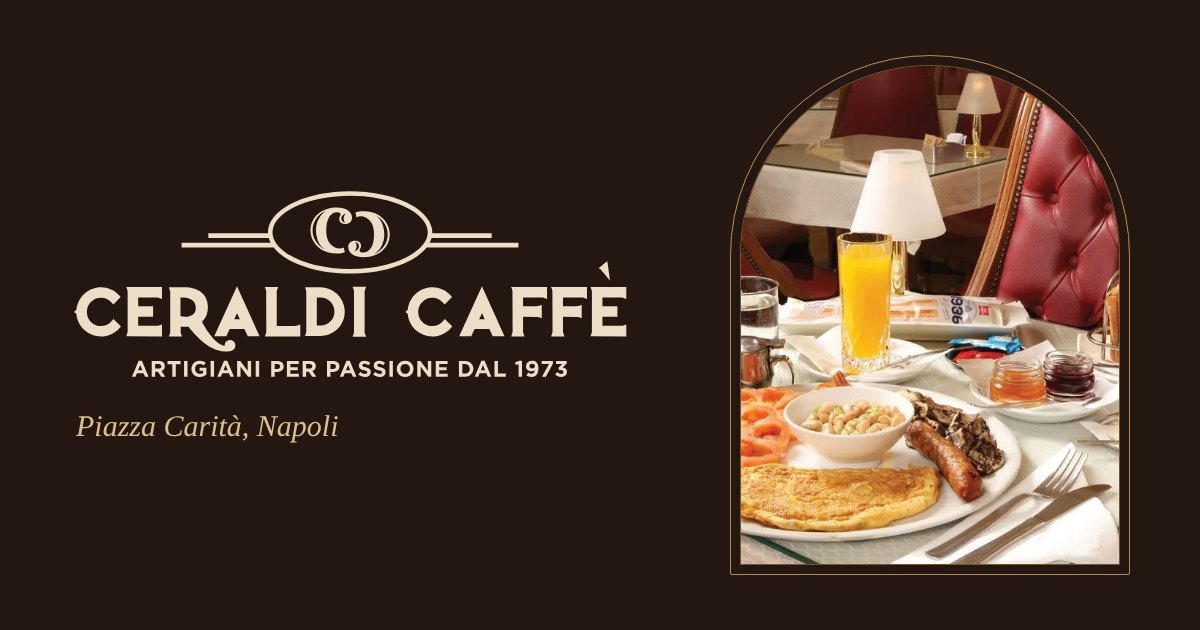
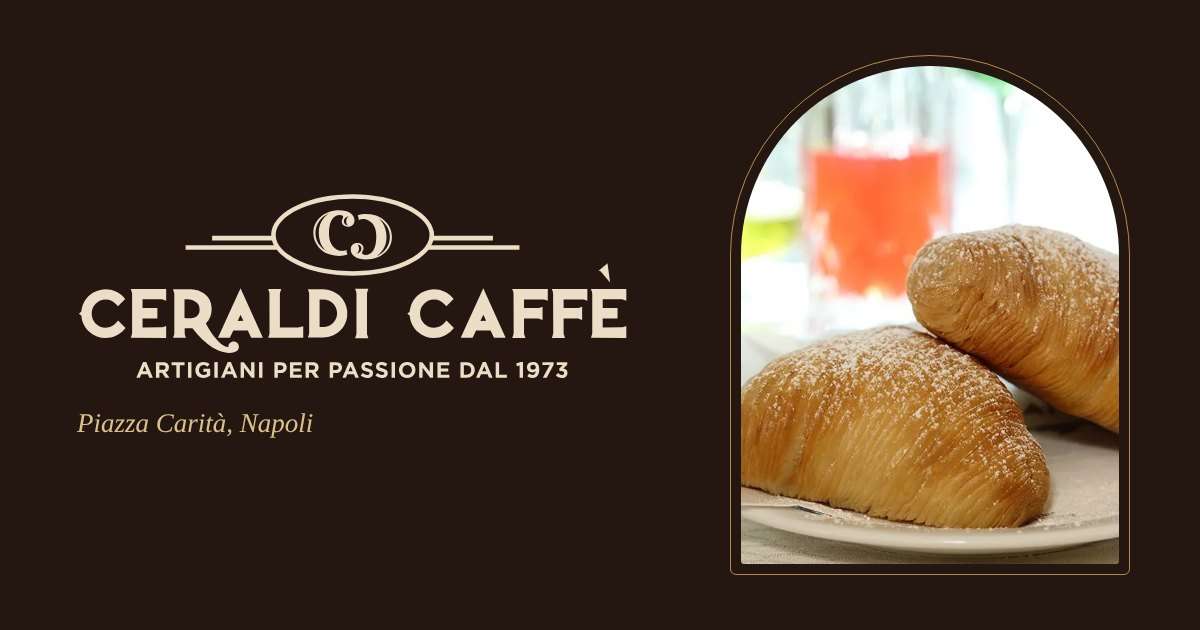
Home: foto principale e immagine di condivisione con la sfogliatella al posto dell'English breakfast
Claude-Session: https://claude.ai/code/session_01QpqcvFL7S2ovpCq1VA1hHC

diff --git a/caffe/index.html b/caffe/index.html
@@ -19,10 +19,10 @@
 <meta name="geo.region" content="IT-NA"><meta name="geo.placename" content="Napoli">
 <link rel="icon" href="favicon.svg" type="image/svg+xml">
 <link rel="apple-touch-icon" href="img/apple-touch-icon.png">
-<link rel="preload" as="image" href="img/sala-1024.webp" fetchpriority="high"><link rel="preload" href="assets/font/BodoniModa-normal-400_600-latin.woff2" as="font" type="font/woff2" crossorigin><link rel="preload" href="assets/font/WorkSans-normal-400-latin.woff2" as="font" type="font/woff2" crossorigin><link rel="stylesheet" href="assets/font.css">
+<link rel="preload" as="image" href="img/sfogliatella-riccia-1024.webp" fetchpriority="high"><link rel="preload" href="assets/font/BodoniModa-normal-400_600-latin.woff2" as="font" type="font/woff2" crossorigin><link rel="preload" href="assets/font/WorkSans-normal-400-latin.woff2" as="font" type="font/woff2" crossorigin><link rel="stylesheet" href="assets/font.css">
 <link rel="stylesheet" href="assets/sito.css">
 
-<script type="application/ld+json">{"@context": "https://schema.org", "@type": ["CafeOrCoffeeShop", "Bakery"], "@id": "https://valerioceraldi-hub.github.io/Ceraldi/caffe/#bar", "name": "Ceraldi Caffè", "alternateName": ["Caffè Ceraldi", "Ceraldi Caffe", "Bar Ceraldi Piazza Carità"], "slogan": "Artigiani per passione dal 1973", "url": "https://valerioceraldi-hub.github.io/Ceraldi/caffe/", "logo": "https://valerioceraldi-hub.github.io/Ceraldi/caffe/img/logo-ceraldi.svg", "image": ["https://valerioceraldi-hub.github.io/Ceraldi/caffe/img/sala-1024.webp", "https://valerioceraldi-hub.github.io/Ceraldi/caffe/img/squadra-1600.webp", "https://valerioceraldi-hub.github.io/Ceraldi/caffe/img/sfogliatella-riccia-1024.webp", "https://valerioceraldi-hub.github.io/Ceraldi/caffe/img/baba-1024.webp"], "description": "Bar e pasticceria napoletana della famiglia Ceraldi, attiva dal 1973 (prima in Piazza Garibaldi, dal 2002 in Piazza Carità, Napoli). Pasticceria di produzione propria con ricette di famiglia custodite da oltre cento anni: sfogliatelle, babà, pastiera, zeppole. Colazione all'italiana con croissant e brioche, caffè della casa, buffet freddi e aperitivo.", "foundingDate": "1973", "telephone": "+39 081 552 3488", "priceRange": "€", "contactPoint": [{"@type": "ContactPoint", "telephone": "+39 081 552 3488", "contactType": "customer service", "availableLanguage": ["it", "en"]}, {"@type": "ContactPoint", "telephone": "+39 328 438 8404", "contactType": "customer service", "availableLanguage": ["it"]}], "address": {"@type": "PostalAddress", "streetAddress": "Piazza Carità, 14", "postalCode": "80134", "addressLocality": "Napoli", "addressRegion": "NA", "addressCountry": "IT"}, "openingHoursSpecification": [{"@type": "OpeningHoursSpecification", "dayOfWeek": ["Monday", "Tuesday", "Wednesday", "Thursday", "Friday", "Saturday", "Sunday"], "opens": "06:30", "closes": "20:30"}], "geo": {"@type": "GeoCoordinates", "latitude": 40.8445035, "longitude": 14.2488753}, "hasMap": "https://maps.google.com/?cid=3267263170235699466", "hasMenu": "https://valerioceraldi-hub.github.io/Ceraldi/caffe/menu/", "vatID": "IT04523831214", "legalName": "Ceraldi Group S.r.l.", "servesCuisine": ["Caffetteria", "Pasticceria napoletana", "Colazione italiana", "Aperitivo"], "knowsAbout": ["caffè napoletano", "sfogliatella", "babà", "pastiera napoletana", "zeppole di San Giuseppe", "pasticceria napoletana", "colazione all'italiana"], "sameAs": ["https://www.instagram.com/ceraldicaffe/", "https://www.facebook.com/ceraldicaffe", "https://www.tripadvisor.it/Restaurant_Review-g187785-d2695184-Reviews-Ceraldi_Caffe-Naples_Province_of_Naples_Campania.html", "https://maps.google.com/?cid=3267263170235699466"]}</script><script type="application/ld+json">{"@context": "https://schema.org", "@type": "WebSite", "@id": "https://valerioceraldi-hub.github.io/Ceraldi/caffe/#sito", "name": "Ceraldi Caffè", "url": "https://valerioceraldi-hub.github.io/Ceraldi/caffe/", "inLanguage": ["it-IT", "en"], "publisher": {"@id": "https://valerioceraldi-hub.github.io/Ceraldi/caffe/#bar"}}</script><script type="application/ld+json">{"@context": "https://schema.org", "@type": "FAQPage", "mainEntity": [{"@type": "Question", "name": "Quali sono gli orari di Ceraldi Caffè?", "acceptedAnswer": {"@type": "Answer", "text": "Siamo aperti tutti i giorni, domenica compresa, dalle 6:30 alle 20:30."}}, {"@type": "Question", "name": "Dove si trova il bar?", "acceptedAnswer": {"@type": "Answer", "text": "In Piazza Carità 14, nel centro di Napoli, lungo via Toledo e vicino alla Pignasecca. Le stazioni Toledo e Dante della metropolitana Linea 1 sono a pochi minuti a piedi."}}, {"@type": "Question", "name": "Posso vedere il menu prima di venire?", "acceptedAnswer": {"@type": "Answer", "text": "Sì, il menu completo con prezzi è sul sito: https://valerioceraldi-hub.github.io/Ceraldi/caffe/menu/ e c'è anche il menu interattivo con filtro allergeni: https://ceraldicaffe.qromo.it"}}, {"@type": "Question", "name": "I dolci sono fatti da voi?", "acceptedAnswer": {"@type": "Answer", "text": "Sì. La pasticceria è di produzione propria, con ricette di famiglia custodite da oltre cento anni: sfogliatelle, babà, pastiera, zeppole e le creazioni della casa."}}, {"@type": "Question", "name": "Cosa posso mangiare a colazione?", "acceptedAnswer": {"@type": "Answer", "text": "La classica colazione all'italiana con croissant (vuoti, alla crema, al cioccolato, integrali, vegani), brioche, kranz e pain au chocolat, insieme ai dolci napoletani come sfogliatella, graffa e babà."}}, {"@type": "Question", "name": "Fate anche l'aperitivo?", "acceptedAnswer": {"@type": "Answer", "text": "Sì, fino alle 20:30, con il nostro Aspritz fatto in casa, spritz, negroni, gin tonic, vini campani al calice e birre."}}, {"@type": "Question", "name": "Si può pranzare?", "acceptedAnswer": {"@type": "Answer", "text": "Sì, con la rosticceria napoletana (frittatine, crocchè, pizza fritta), saltimbocca e panini, freselle e insalate."}}, {"@type": "Question", "name": "Servite la colazione inglese?", "acceptedAnswer": {"@type": "Answer", "text": "Sì, tutte le mattine serviamo la Full English Breakfast: uova, bacon, salsicce, fagioli, funghi, pomodori, pane tostato e tè."}}, {"@type": "Question", "name": "Come posso contattarvi?", "acceptedAnswer": {"@type": "Answer", "text": "Al telefono fisso 081 552 3488 (anche WhatsApp), al cellulare 328 438 8404 oppure su Instagram @ceraldicaffe."}}, {"@type": "Question", "name": "Dove posso leggere le recensioni?", "acceptedAnswer": {"@type": "Answer", "text": "Su Google e su Tripadvisor, dove trovi quasi 2.000 recensioni dei nostri clienti."}}]}</script>
+<script type="application/ld+json">{"@context": "https://schema.org", "@type": ["CafeOrCoffeeShop", "Bakery"], "@id": "https://valerioceraldi-hub.github.io/Ceraldi/caffe/#bar", "name": "Ceraldi Caffè", "alternateName": ["Caffè Ceraldi", "Ceraldi Caffe", "Bar Ceraldi Piazza Carità"], "slogan": "Artigiani per passione dal 1973", "url": "https://valerioceraldi-hub.github.io/Ceraldi/caffe/", "logo": "https://valerioceraldi-hub.github.io/Ceraldi/caffe/img/logo-ceraldi.svg", "image": ["https://valerioceraldi-hub.github.io/Ceraldi/caffe/img/sfogliatella-riccia-1024.webp", "https://valerioceraldi-hub.github.io/Ceraldi/caffe/img/baba-1024.webp", "https://valerioceraldi-hub.github.io/Ceraldi/caffe/img/squadra-1600.webp", "https://valerioceraldi-hub.github.io/Ceraldi/caffe/img/sala-1024.webp"], "description": "Bar e pasticceria napoletana della famiglia Ceraldi, attiva dal 1973 (prima in Piazza Garibaldi, dal 2002 in Piazza Carità, Napoli). Pasticceria di produzione propria con ricette di famiglia custodite da oltre cento anni: sfogliatelle, babà, pastiera, zeppole. Colazione all'italiana con croissant e brioche, caffè della casa, buffet freddi e aperitivo.", "foundingDate": "1973", "telephone": "+39 081 552 3488", "priceRange": "€", "contactPoint": [{"@type": "ContactPoint", "telephone": "+39 081 552 3488", "contactType": "customer service", "availableLanguage": ["it", "en"]}, {"@type": "ContactPoint", "telephone": "+39 328 438 8404", "contactType": "customer service", "availableLanguage": ["it"]}], "address": {"@type": "PostalAddress", "streetAddress": "Piazza Carità, 14", "postalCode": "80134", "addressLocality": "Napoli", "addressRegion": "NA", "addressCountry": "IT"}, "openingHoursSpecification": [{"@type": "OpeningHoursSpecification", "dayOfWeek": ["Monday", "Tuesday", "Wednesday", "Thursday", "Friday", "Saturday", "Sunday"], "opens": "06:30", "closes": "20:30"}], "geo": {"@type": "GeoCoordinates", "latitude": 40.8445035, "longitude": 14.2488753}, "hasMap": "https://maps.google.com/?cid=3267263170235699466", "hasMenu": "https://valerioceraldi-hub.github.io/Ceraldi/caffe/menu/", "vatID": "IT04523831214", "legalName": "Ceraldi Group S.r.l.", "servesCuisine": ["Caffetteria", "Pasticceria napoletana", "Colazione italiana", "Aperitivo"], "knowsAbout": ["caffè napoletano", "sfogliatella", "babà", "pastiera napoletana", "zeppole di San Giuseppe", "pasticceria napoletana", "colazione all'italiana"], "sameAs": ["https://www.instagram.com/ceraldicaffe/", "https://www.facebook.com/ceraldicaffe", "https://www.tripadvisor.it/Restaurant_Review-g187785-d2695184-Reviews-Ceraldi_Caffe-Naples_Province_of_Naples_Campania.html", "https://maps.google.com/?cid=3267263170235699466"]}</script><script type="application/ld+json">{"@context": "https://schema.org", "@type": "WebSite", "@id": "https://valerioceraldi-hub.github.io/Ceraldi/caffe/#sito", "name": "Ceraldi Caffè", "url": "https://valerioceraldi-hub.github.io/Ceraldi/caffe/", "inLanguage": ["it-IT", "en"], "publisher": {"@id": "https://valerioceraldi-hub.github.io/Ceraldi/caffe/#bar"}}</script><script type="application/ld+json">{"@context": "https://schema.org", "@type": "FAQPage", "mainEntity": [{"@type": "Question", "name": "Quali sono gli orari di Ceraldi Caffè?", "acceptedAnswer": {"@type": "Answer", "text": "Siamo aperti tutti i giorni, domenica compresa, dalle 6:30 alle 20:30."}}, {"@type": "Question", "name": "Dove si trova il bar?", "acceptedAnswer": {"@type": "Answer", "text": "In Piazza Carità 14, nel centro di Napoli, lungo via Toledo e vicino alla Pignasecca. Le stazioni Toledo e Dante della metropolitana Linea 1 sono a pochi minuti a piedi."}}, {"@type": "Question", "name": "Posso vedere il menu prima di venire?", "acceptedAnswer": {"@type": "Answer", "text": "Sì, il menu completo con prezzi è sul sito: https://valerioceraldi-hub.github.io/Ceraldi/caffe/menu/ e c'è anche il menu interattivo con filtro allergeni: https://ceraldicaffe.qromo.it"}}, {"@type": "Question", "name": "I dolci sono fatti da voi?", "acceptedAnswer": {"@type": "Answer", "text": "Sì. La pasticceria è di produzione propria, con ricette di famiglia custodite da oltre cento anni: sfogliatelle, babà, pastiera, zeppole e le creazioni della casa."}}, {"@type": "Question", "name": "Cosa posso mangiare a colazione?", "acceptedAnswer": {"@type": "Answer", "text": "La classica colazione all'italiana con croissant (vuoti, alla crema, al cioccolato, integrali, vegani), brioche, kranz e pain au chocolat, insieme ai dolci napoletani come sfogliatella, graffa e babà."}}, {"@type": "Question", "name": "Fate anche l'aperitivo?", "acceptedAnswer": {"@type": "Answer", "text": "Sì, fino alle 20:30, con il nostro Aspritz fatto in casa, spritz, negroni, gin tonic, vini campani al calice e birre."}}, {"@type": "Question", "name": "Si può pranzare?", "acceptedAnswer": {"@type": "Answer", "text": "Sì, con la rosticceria napoletana (frittatine, crocchè, pizza fritta), saltimbocca e panini, freselle e insalate."}}, {"@type": "Question", "name": "Servite la colazione inglese?", "acceptedAnswer": {"@type": "Answer", "text": "Sì, tutte le mattine serviamo la Full English Breakfast: uova, bacon, salsicce, fagioli, funghi, pomodori, pane tostato e tè."}}, {"@type": "Question", "name": "Come posso contattarvi?", "acceptedAnswer": {"@type": "Answer", "text": "Al telefono fisso 081 552 3488 (anche WhatsApp), al cellulare 328 438 8404 oppure su Instagram @ceraldicaffe."}}, {"@type": "Question", "name": "Dove posso leggere le recensioni?", "acceptedAnswer": {"@type": "Answer", "text": "Su Google e su Tripadvisor, dove trovi quasi 2.000 recensioni dei nostri clienti."}}]}</script>
 </head>
 <body>
 <a class="salta" href="#contenuto">Vai al contenuto</a>
@@ -38,7 +38,7 @@
 <div class="azioni sinistra"><a class="btn pieno" href="https://maps.google.com/?cid=3267263170235699466" rel="noopener">Come arrivare</a><a class="btn" href="menu/">Guarda il menu</a><a class="btn" href="tel:+390815523488">Chiama</a></div>
 <p class="aperto">Aperto tutti i giorni dalle 6:30 alle 20:30<br><a href="#recensioni">Valutazione 4,3 su Google</a></p>
 </div>
-<figure class="specchio"><img src="img/sala-1024.webp" srcset="img/sala-640.webp 640w, img/sala-1024.webp 1024w" sizes="(max-width: 900px) 92vw, 480px" width="1024" height="683" alt="La sala di Ceraldi Caffè con le poltroncine in pelle rossa e una colazione servita al tavolo" fetchpriority="high" decoding="async"></figure>
+<figure class="specchio"><img class="fuoco-sx" src="img/sfogliatella-riccia-1024.webp" srcset="img/sfogliatella-riccia-640.webp 640w, img/sfogliatella-riccia-1024.webp 1024w" sizes="(max-width: 900px) 92vw, 480px" width="1024" height="768" alt="Sfogliatelle ricce di Ceraldi Caffè su un piattino" fetchpriority="high" decoding="async"></figure>
 </div>
 </header>
 <main id="contenuto">

diff --git a/caffe/en/index.html b/caffe/en/index.html
@@ -19,10 +19,10 @@
 <meta name="geo.region" content="IT-NA"><meta name="geo.placename" content="Napoli">
 <link rel="icon" href="../favicon.svg" type="image/svg+xml">
 <link rel="apple-touch-icon" href="../img/apple-touch-icon.png">
-<link rel="preload" as="image" href="../img/sala-1024.webp" fetchpriority="high"><link rel="preload" href="../assets/font/BodoniModa-normal-400_600-latin.woff2" as="font" type="font/woff2" crossorigin><link rel="preload" href="../assets/font/WorkSans-normal-400-latin.woff2" as="font" type="font/woff2" crossorigin><link rel="stylesheet" href="../assets/font.css">
+<link rel="preload" as="image" href="../img/sfogliatella-riccia-1024.webp" fetchpriority="high"><link rel="preload" href="../assets/font/BodoniModa-normal-400_600-latin.woff2" as="font" type="font/woff2" crossorigin><link rel="preload" href="../assets/font/WorkSans-normal-400-latin.woff2" as="font" type="font/woff2" crossorigin><link rel="stylesheet" href="../assets/font.css">
 <link rel="stylesheet" href="../assets/sito.css">
 
-<script type="application/ld+json">{"@context": "https://schema.org", "@type": ["CafeOrCoffeeShop", "Bakery"], "@id": "https://valerioceraldi-hub.github.io/Ceraldi/caffe/#bar", "name": "Ceraldi Caffè", "alternateName": ["Caffè Ceraldi", "Ceraldi Caffe", "Bar Ceraldi Piazza Carità"], "slogan": "Artigiani per passione dal 1973", "url": "https://valerioceraldi-hub.github.io/Ceraldi/caffe/", "logo": "https://valerioceraldi-hub.github.io/Ceraldi/caffe/img/logo-ceraldi.svg", "image": ["https://valerioceraldi-hub.github.io/Ceraldi/caffe/img/sala-1024.webp", "https://valerioceraldi-hub.github.io/Ceraldi/caffe/img/squadra-1600.webp", "https://valerioceraldi-hub.github.io/Ceraldi/caffe/img/sfogliatella-riccia-1024.webp", "https://valerioceraldi-hub.github.io/Ceraldi/caffe/img/baba-1024.webp"], "description": "Neapolitan café and pastry shop run by the Ceraldi family since 1973 (first in Piazza Garibaldi, in Piazza Carità, Naples, since 2002). In-house pastries from family recipes kept for over a hundred years: sfogliatella, babà, pastiera, zeppole. Italian breakfast with croissants and brioche, house coffees, cold buffet and aperitivo.", "foundingDate": "1973", "telephone": "+39 081 552 3488", "priceRange": "€", "contactPoint": [{"@type": "ContactPoint", "telephone": "+39 081 552 3488", "contactType": "customer service", "availableLanguage": ["it", "en"]}, {"@type": "ContactPoint", "telephone": "+39 328 438 8404", "contactType": "customer service", "availableLanguage": ["it"]}], "address": {"@type": "PostalAddress", "streetAddress": "Piazza Carità, 14", "postalCode": "80134", "addressLocality": "Napoli", "addressRegion": "NA", "addressCountry": "IT"}, "openingHoursSpecification": [{"@type": "OpeningHoursSpecification", "dayOfWeek": ["Monday", "Tuesday", "Wednesday", "Thursday", "Friday", "Saturday", "Sunday"], "opens": "06:30", "closes": "20:30"}], "geo": {"@type": "GeoCoordinates", "latitude": 40.8445035, "longitude": 14.2488753}, "hasMap": "https://maps.google.com/?cid=3267263170235699466", "hasMenu": "https://valerioceraldi-hub.github.io/Ceraldi/caffe/menu/", "vatID": "IT04523831214", "legalName": "Ceraldi Group S.r.l.", "servesCuisine": ["Caffetteria", "Pasticceria napoletana", "Colazione italiana", "Aperitivo"], "knowsAbout": ["caffè napoletano", "sfogliatella", "babà", "pastiera napoletana", "zeppole di San Giuseppe", "pasticceria napoletana", "colazione all'italiana"], "sameAs": ["https://www.instagram.com/ceraldicaffe/", "https://www.facebook.com/ceraldicaffe", "https://www.tripadvisor.it/Restaurant_Review-g187785-d2695184-Reviews-Ceraldi_Caffe-Naples_Province_of_Naples_Campania.html", "https://maps.google.com/?cid=3267263170235699466"]}</script><script type="application/ld+json">{"@context": "https://schema.org", "@type": "FAQPage", "mainEntity": [{"@type": "Question", "name": "What are the opening hours?", "acceptedAnswer": {"@type": "Answer", "text": "We are open every day, Sundays included, from 6:30 am to 8:30 pm."}}, {"@type": "Question", "name": "Where is the café?", "acceptedAnswer": {"@type": "Answer", "text": "At Piazza Carità 14 in central Naples, on Via Toledo near the Pignasecca market. Toledo and Dante stations on Metro Line 1 are a few minutes' walk away."}}, {"@type": "Question", "name": "Can I see the menu online?", "acceptedAnswer": {"@type": "Answer", "text": "Yes, the full menu with prices is on our website: https://valerioceraldi-hub.github.io/Ceraldi/caffe/en/menu/ and there is also an interactive menu with an allergen filter: https://ceraldicaffe.qromo.it"}}, {"@type": "Question", "name": "Do you make your own pastries?", "acceptedAnswer": {"@type": "Answer", "text": "Yes. Our pastries are made in-house from family recipes kept for over a hundred years."}}, {"@type": "Question", "name": "What can I have for breakfast?", "acceptedAnswer": {"@type": "Answer", "text": "A classic Italian breakfast with croissants, brioche, kranz and pain au chocolat, plus Neapolitan pastries such as sfogliatella, graffa and babà."}}, {"@type": "Question", "name": "Do you serve an English breakfast?", "acceptedAnswer": {"@type": "Answer", "text": "Yes, every morning: eggs, bacon, sausages, beans, mushrooms, tomatoes, toast and tea."}}, {"@type": "Question", "name": "How can I contact you?", "acceptedAnswer": {"@type": "Answer", "text": "Call +39 081 552 3488 (also WhatsApp) or mobile +39 328 438 8404, or find us on Instagram @ceraldicaffe."}}]}</script>
+<script type="application/ld+json">{"@context": "https://schema.org", "@type": ["CafeOrCoffeeShop", "Bakery"], "@id": "https://valerioceraldi-hub.github.io/Ceraldi/caffe/#bar", "name": "Ceraldi Caffè", "alternateName": ["Caffè Ceraldi", "Ceraldi Caffe", "Bar Ceraldi Piazza Carità"], "slogan": "Artigiani per passione dal 1973", "url": "https://valerioceraldi-hub.github.io/Ceraldi/caffe/", "logo": "https://valerioceraldi-hub.github.io/Ceraldi/caffe/img/logo-ceraldi.svg", "image": ["https://valerioceraldi-hub.github.io/Ceraldi/caffe/img/sfogliatella-riccia-1024.webp", "https://valerioceraldi-hub.github.io/Ceraldi/caffe/img/baba-1024.webp", "https://valerioceraldi-hub.github.io/Ceraldi/caffe/img/squadra-1600.webp", "https://valerioceraldi-hub.github.io/Ceraldi/caffe/img/sala-1024.webp"], "description": "Neapolitan café and pastry shop run by the Ceraldi family since 1973 (first in Piazza Garibaldi, in Piazza Carità, Naples, since 2002). In-house pastries from family recipes kept for over a hundred years: sfogliatella, babà, pastiera, zeppole. Italian breakfast with croissants and brioche, house coffees, cold buffet and aperitivo.", "foundingDate": "1973", "telephone": "+39 081 552 3488", "priceRange": "€", "contactPoint": [{"@type": "ContactPoint", "telephone": "+39 081 552 3488", "contactType": "customer service", "availableLanguage": ["it", "en"]}, {"@type": "ContactPoint", "telephone": "+39 328 438 8404", "contactType": "customer service", "availableLanguage": ["it"]}], "address": {"@type": "PostalAddress", "streetAddress": "Piazza Carità, 14", "postalCode": "80134", "addressLocality": "Napoli", "addressRegion": "NA", "addressCountry": "IT"}, "openingHoursSpecification": [{"@type": "OpeningHoursSpecification", "dayOfWeek": ["Monday", "Tuesday", "Wednesday", "Thursday", "Friday", "Saturday", "Sunday"], "opens": "06:30", "closes": "20:30"}], "geo": {"@type": "GeoCoordinates", "latitude": 40.8445035, "longitude": 14.2488753}, "hasMap": "https://maps.google.com/?cid=3267263170235699466", "hasMenu": "https://valerioceraldi-hub.github.io/Ceraldi/caffe/menu/", "vatID": "IT04523831214", "legalName": "Ceraldi Group S.r.l.", "servesCuisine": ["Caffetteria", "Pasticceria napoletana", "Colazione italiana", "Aperitivo"], "knowsAbout": ["caffè napoletano", "sfogliatella", "babà", "pastiera napoletana", "zeppole di San Giuseppe", "pasticceria napoletana", "colazione all'italiana"], "sameAs": ["https://www.instagram.com/ceraldicaffe/", "https://www.facebook.com/ceraldicaffe", "https://www.tripadvisor.it/Restaurant_Review-g187785-d2695184-Reviews-Ceraldi_Caffe-Naples_Province_of_Naples_Campania.html", "https://maps.google.com/?cid=3267263170235699466"]}</script><script type="application/ld+json">{"@context": "https://schema.org", "@type": "FAQPage", "mainEntity": [{"@type": "Question", "name": "What are the opening hours?", "acceptedAnswer": {"@type": "Answer", "text": "We are open every day, Sundays included, from 6:30 am to 8:30 pm."}}, {"@type": "Question", "name": "Where is the café?", "acceptedAnswer": {"@type": "Answer", "text": "At Piazza Carità 14 in central Naples, on Via Toledo near the Pignasecca market. Toledo and Dante stations on Metro Line 1 are a few minutes' walk away."}}, {"@type": "Question", "name": "Can I see the menu online?", "acceptedAnswer": {"@type": "Answer", "text": "Yes, the full menu with prices is on our website: https://valerioceraldi-hub.github.io/Ceraldi/caffe/en/menu/ and there is also an interactive menu with an allergen filter: https://ceraldicaffe.qromo.it"}}, {"@type": "Question", "name": "Do you make your own pastries?", "acceptedAnswer": {"@type": "Answer", "text": "Yes. Our pastries are made in-house from family recipes kept for over a hundred years."}}, {"@type": "Question", "name": "What can I have for breakfast?", "acceptedAnswer": {"@type": "Answer", "text": "A classic Italian breakfast with croissants, brioche, kranz and pain au chocolat, plus Neapolitan pastries such as sfogliatella, graffa and babà."}}, {"@type": "Question", "name": "Do you serve an English breakfast?", "acceptedAnswer": {"@type": "Answer", "text": "Yes, every morning: eggs, bacon, sausages, beans, mushrooms, tomatoes, toast and tea."}}, {"@type": "Question", "name": "How can I contact you?", "acceptedAnswer": {"@type": "Answer", "text": "Call +39 081 552 3488 (also WhatsApp) or mobile +39 328 438 8404, or find us on Instagram @ceraldicaffe."}}]}</script>
 </head>
 <body>
 <a class="salta" href="#contenuto">Skip to content</a>
@@ -38,7 +38,7 @@
 <div class="azioni sinistra"><a class="btn pieno" href="https://maps.google.com/?cid=3267263170235699466" rel="noopener">Get directions</a><a class="btn" href="menu/">See the menu</a><a class="btn" href="tel:+390815523488">Call</a></div>
 <p class="aperto">Open every day from 6:30 am to 8:30 pm<br><a href="#reviews">Rated 4.3 on Google</a></p>
 </div>
-<figure class="specchio"><img src="../img/sala-1024.webp" srcset="../img/sala-640.webp 640w, ../img/sala-1024.webp 1024w" sizes="(max-width: 900px) 92vw, 480px" width="1024" height="683" alt="La sala di Ceraldi Caffè con le poltroncine in pelle rossa e una colazione servita al tavolo" fetchpriority="high" decoding="async"></figure>
+<figure class="specchio"><img class="fuoco-sx" src="../img/sfogliatella-riccia-1024.webp" srcset="../img/sfogliatella-riccia-640.webp 640w, ../img/sfogliatella-riccia-1024.webp 1024w" sizes="(max-width: 900px) 92vw, 480px" width="1024" height="768" alt="Sfogliatelle ricce di Ceraldi Caffè su un piattino" fetchpriority="high" decoding="async"></figure>
 </div>
 </header>
 <main id="contenuto">

diff --git a/caffe/contatti/index.html b/caffe/contatti/index.html
@@ -22,7 +22,7 @@
 <link rel="preload" href="../assets/font/BodoniModa-normal-400_600-latin.woff2" as="font" type="font/woff2" crossorigin><link rel="preload" href="../assets/font/WorkSans-normal-400-latin.woff2" as="font" type="font/woff2" crossorigin><link rel="stylesheet" href="../assets/font.css">
 <link rel="stylesheet" href="../assets/sito.css">
 
-<script type="application/ld+json">{"@context": "https://schema.org", "@type": ["CafeOrCoffeeShop", "Bakery"], "@id": "https://valerioceraldi-hub.github.io/Ceraldi/caffe/#bar", "name": "Ceraldi Caffè", "alternateName": ["Caffè Ceraldi", "Ceraldi Caffe", "Bar Ceraldi Piazza Carità"], "slogan": "Artigiani per passione dal 1973", "url": "https://valerioceraldi-hub.github.io/Ceraldi/caffe/", "logo": "https://valerioceraldi-hub.github.io/Ceraldi/caffe/img/logo-ceraldi.svg", "image": ["https://valerioceraldi-hub.github.io/Ceraldi/caffe/img/sala-1024.webp", "https://valerioceraldi-hub.github.io/Ceraldi/caffe/img/squadra-1600.webp", "https://valerioceraldi-hub.github.io/Ceraldi/caffe/img/sfogliatella-riccia-1024.webp", "https://valerioceraldi-hub.github.io/Ceraldi/caffe/img/baba-1024.webp"], "description": "Bar e pasticceria napoletana della famiglia Ceraldi, attiva dal 1973 (prima in Piazza Garibaldi, dal 2002 in Piazza Carità, Napoli). Pasticceria di produzione propria con ricette di famiglia custodite da oltre cento anni: sfogliatelle, babà, pastiera, zeppole. Colazione all'italiana con croissant e brioche, caffè della casa, buffet freddi e aperitivo.", "foundingDate": "1973", "telephone": "+39 081 552 3488", "priceRange": "€", "contactPoint": [{"@type": "ContactPoint", "telephone": "+39 081 552 3488", "contactType": "customer service", "availableLanguage": ["it", "en"]}, {"@type": "ContactPoint", "telephone": "+39 328 438 8404", "contactType": "customer service", "availableLanguage": ["it"]}], "address": {"@type": "PostalAddress", "streetAddress": "Piazza Carità, 14", "postalCode": "80134", "addressLocality": "Napoli", "addressRegion": "NA", "addressCountry": "IT"}, "openingHoursSpecification": [{"@type": "OpeningHoursSpecification", "dayOfWeek": ["Monday", "Tuesday", "Wednesday", "Thursday", "Friday", "Saturday", "Sunday"], "opens": "06:30", "closes": "20:30"}], "geo": {"@type": "GeoCoordinates", "latitude": 40.8445035, "longitude": 14.2488753}, "hasMap": "https://maps.google.com/?cid=3267263170235699466", "hasMenu": "https://valerioceraldi-hub.github.io/Ceraldi/caffe/menu/", "vatID": "IT04523831214", "legalName": "Ceraldi Group S.r.l.", "servesCuisine": ["Caffetteria", "Pasticceria napoletana", "Colazione italiana", "Aperitivo"], "knowsAbout": ["caffè napoletano", "sfogliatella", "babà", "pastiera napoletana", "zeppole di San Giuseppe", "pasticceria napoletana", "colazione all'italiana"], "sameAs": ["https://www.instagram.com/ceraldicaffe/", "https://www.facebook.com/ceraldicaffe", "https://www.tripadvisor.it/Restaurant_Review-g187785-d2695184-Reviews-Ceraldi_Caffe-Naples_Province_of_Naples_Campania.html", "https://maps.google.com/?cid=3267263170235699466"]}</script><script type="application/ld+json">{"@context": "https://schema.org", "@type": "BreadcrumbList", "itemListElement": [{"@type": "ListItem", "position": 1, "name": "Ceraldi Caffè", "item": "https://valerioceraldi-hub.github.io/Ceraldi/caffe/"}, {"@type": "ListItem", "position": 2, "name": "Contatti", "item": "https://valerioceraldi-hub.github.io/Ceraldi/caffe/contatti/"}]}</script>
+<script type="application/ld+json">{"@context": "https://schema.org", "@type": ["CafeOrCoffeeShop", "Bakery"], "@id": "https://valerioceraldi-hub.github.io/Ceraldi/caffe/#bar", "name": "Ceraldi Caffè", "alternateName": ["Caffè Ceraldi", "Ceraldi Caffe", "Bar Ceraldi Piazza Carità"], "slogan": "Artigiani per passione dal 1973", "url": "https://valerioceraldi-hub.github.io/Ceraldi/caffe/", "logo": "https://valerioceraldi-hub.github.io/Ceraldi/caffe/img/logo-ceraldi.svg", "image": ["https://valerioceraldi-hub.github.io/Ceraldi/caffe/img/sfogliatella-riccia-1024.webp", "https://valerioceraldi-hub.github.io/Ceraldi/caffe/img/baba-1024.webp", "https://valerioceraldi-hub.github.io/Ceraldi/caffe/img/squadra-1600.webp", "https://valerioceraldi-hub.github.io/Ceraldi/caffe/img/sala-1024.webp"], "description": "Bar e pasticceria napoletana della famiglia Ceraldi, attiva dal 1973 (prima in Piazza Garibaldi, dal 2002 in Piazza Carità, Napoli). Pasticceria di produzione propria con ricette di famiglia custodite da oltre cento anni: sfogliatelle, babà, pastiera, zeppole. Colazione all'italiana con croissant e brioche, caffè della casa, buffet freddi e aperitivo.", "foundingDate": "1973", "telephone": "+39 081 552 3488", "priceRange": "€", "contactPoint": [{"@type": "ContactPoint", "telephone": "+39 081 552 3488", "contactType": "customer service", "availableLanguage": ["it", "en"]}, {"@type": "ContactPoint", "telephone": "+39 328 438 8404", "contactType": "customer service", "availableLanguage": ["it"]}], "address": {"@type": "PostalAddress", "streetAddress": "Piazza Carità, 14", "postalCode": "80134", "addressLocality": "Napoli", "addressRegion": "NA", "addressCountry": "IT"}, "openingHoursSpecification": [{"@type": "OpeningHoursSpecification", "dayOfWeek": ["Monday", "Tuesday", "Wednesday", "Thursday", "Friday", "Saturday", "Sunday"], "opens": "06:30", "closes": "20:30"}], "geo": {"@type": "GeoCoordinates", "latitude": 40.8445035, "longitude": 14.2488753}, "hasMap": "https://maps.google.com/?cid=3267263170235699466", "hasMenu": "https://valerioceraldi-hub.github.io/Ceraldi/caffe/menu/", "vatID": "IT04523831214", "legalName": "Ceraldi Group S.r.l.", "servesCuisine": ["Caffetteria", "Pasticceria napoletana", "Colazione italiana", "Aperitivo"], "knowsAbout": ["caffè napoletano", "sfogliatella", "babà", "pastiera napoletana", "zeppole di San Giuseppe", "pasticceria napoletana", "colazione all'italiana"], "sameAs": ["https://www.instagram.com/ceraldicaffe/", "https://www.facebook.com/ceraldicaffe", "https://www.tripadvisor.it/Restaurant_Review-g187785-d2695184-Reviews-Ceraldi_Caffe-Naples_Province_of_Naples_Campania.html", "https://maps.google.com/?cid=3267263170235699466"]}</script><script type="application/ld+json">{"@context": "https://schema.org", "@type": "BreadcrumbList", "itemListElement": [{"@type": "ListItem", "position": 1, "name": "Ceraldi Caffè", "item": "https://valerioceraldi-hub.github.io/Ceraldi/caffe/"}, {"@type": "ListItem", "position": 2, "name": "Contatti", "item": "https://valerioceraldi-hub.github.io/Ceraldi/caffe/contatti/"}]}</script>
 </head>
 <body>
 <a class="salta" href="#contenuto">Vai al contenuto</a>

diff --git a/caffe/en/contatti/index.html b/caffe/en/contatti/index.html
@@ -22,7 +22,7 @@
 <link rel="preload" href="../../assets/font/BodoniModa-normal-400_600-latin.woff2" as="font" type="font/woff2" crossorigin><link rel="preload" href="../../assets/font/WorkSans-normal-400-latin.woff2" as="font" type="font/woff2" crossorigin><link rel="stylesheet" href="../../assets/font.css">
 <link rel="stylesheet" href="../../assets/sito.css">
 
-<script type="application/ld+json">{"@context": "https://schema.org", "@type": ["CafeOrCoffeeShop", "Bakery"], "@id": "https://valerioceraldi-hub.github.io/Ceraldi/caffe/#bar", "name": "Ceraldi Caffè", "alternateName": ["Caffè Ceraldi", "Ceraldi Caffe", "Bar Ceraldi Piazza Carità"], "slogan": "Artigiani per passione dal 1973", "url": "https://valerioceraldi-hub.github.io/Ceraldi/caffe/", "logo": "https://valerioceraldi-hub.github.io/Ceraldi/caffe/img/logo-ceraldi.svg", "image": ["https://valerioceraldi-hub.github.io/Ceraldi/caffe/img/sala-1024.webp", "https://valerioceraldi-hub.github.io/Ceraldi/caffe/img/squadra-1600.webp", "https://valerioceraldi-hub.github.io/Ceraldi/caffe/img/sfogliatella-riccia-1024.webp", "https://valerioceraldi-hub.github.io/Ceraldi/caffe/img/baba-1024.webp"], "description": "Neapolitan café and pastry shop run by the Ceraldi family since 1973 (first in Piazza Garibaldi, in Piazza Carità, Naples, since 2002). In-house pastries from family recipes kept for over a hundred years: sfogliatella, babà, pastiera, zeppole. Italian breakfast with croissants and brioche, house coffees, cold buffet and aperitivo.", "foundingDate": "1973", "telephone": "+39 081 552 3488", "priceRange": "€", "contactPoint": [{"@type": "ContactPoint", "telephone": "+39 081 552 3488", "contactType": "customer service", "availableLanguage": ["it", "en"]}, {"@type": "ContactPoint", "telephone": "+39 328 438 8404", "contactType": "customer service", "availableLanguage": ["it"]}], "address": {"@type": "PostalAddress", "streetAddress": "Piazza Carità, 14", "postalCode": "80134", "addressLocality": "Napoli", "addressRegion": "NA", "addressCountry": "IT"}, "openingHoursSpecification": [{"@type": "OpeningHoursSpecification", "dayOfWeek": ["Monday", "Tuesday", "Wednesday", "Thursday", "Friday", "Saturday", "Sunday"], "opens": "06:30", "closes": "20:30"}], "geo": {"@type": "GeoCoordinates", "latitude": 40.8445035, "longitude": 14.2488753}, "hasMap": "https://maps.google.com/?cid=3267263170235699466", "hasMenu": "https://valerioceraldi-hub.github.io/Ceraldi/caffe/menu/", "vatID": "IT04523831214", "legalName": "Ceraldi Group S.r.l.", "servesCuisine": ["Caffetteria", "Pasticceria napoletana", "Colazione italiana", "Aperitivo"], "knowsAbout": ["caffè napoletano", "sfogliatella", "babà", "pastiera napoletana", "zeppole di San Giuseppe", "pasticceria napoletana", "colazione all'italiana"], "sameAs": ["https://www.instagram.com/ceraldicaffe/", "https://www.facebook.com/ceraldicaffe", "https://www.tripadvisor.it/Restaurant_Review-g187785-d2695184-Reviews-Ceraldi_Caffe-Naples_Province_of_Naples_Campania.html", "https://maps.google.com/?cid=3267263170235699466"]}</script><script type="application/ld+json">{"@context": "https://schema.org", "@type": "BreadcrumbList", "itemListElement": [{"@type": "ListItem", "position": 1, "name": "Ceraldi Caffè", "item": "https://valerioceraldi-hub.github.io/Ceraldi/caffe/"}, {"@type": "ListItem", "position": 2, "name": "Contact", "item": "https://valerioceraldi-hub.github.io/Ceraldi/caffe/en/contatti/"}]}</script>
+<script type="application/ld+json">{"@context": "https://schema.org", "@type": ["CafeOrCoffeeShop", "Bakery"], "@id": "https://valerioceraldi-hub.github.io/Ceraldi/caffe/#bar", "name": "Ceraldi Caffè", "alternateName": ["Caffè Ceraldi", "Ceraldi Caffe", "Bar Ceraldi Piazza Carità"], "slogan": "Artigiani per passione dal 1973", "url": "https://valerioceraldi-hub.github.io/Ceraldi/caffe/", "logo": "https://valerioceraldi-hub.github.io/Ceraldi/caffe/img/logo-ceraldi.svg", "image": ["https://valerioceraldi-hub.github.io/Ceraldi/caffe/img/sfogliatella-riccia-1024.webp", "https://valerioceraldi-hub.github.io/Ceraldi/caffe/img/baba-1024.webp", "https://valerioceraldi-hub.github.io/Ceraldi/caffe/img/squadra-1600.webp", "https://valerioceraldi-hub.github.io/Ceraldi/caffe/img/sala-1024.webp"], "description": "Neapolitan café and pastry shop run by the Ceraldi family since 1973 (first in Piazza Garibaldi, in Piazza Carità, Naples, since 2002). In-house pastries from family recipes kept for over a hundred years: sfogliatella, babà, pastiera, zeppole. Italian breakfast with croissants and brioche, house coffees, cold buffet and aperitivo.", "foundingDate": "1973", "telephone": "+39 081 552 3488", "priceRange": "€", "contactPoint": [{"@type": "ContactPoint", "telephone": "+39 081 552 3488", "contactType": "customer service", "availableLanguage": ["it", "en"]}, {"@type": "ContactPoint", "telephone": "+39 328 438 8404", "contactType": "customer service", "availableLanguage": ["it"]}], "address": {"@type": "PostalAddress", "streetAddress": "Piazza Carità, 14", "postalCode": "80134", "addressLocality": "Napoli", "addressRegion": "NA", "addressCountry": "IT"}, "openingHoursSpecification": [{"@type": "OpeningHoursSpecification", "dayOfWeek": ["Monday", "Tuesday", "Wednesday", "Thursday", "Friday", "Saturday", "Sunday"], "opens": "06:30", "closes": "20:30"}], "geo": {"@type": "GeoCoordinates", "latitude": 40.8445035, "longitude": 14.2488753}, "hasMap": "https://maps.google.com/?cid=3267263170235699466", "hasMenu": "https://valerioceraldi-hub.github.io/Ceraldi/caffe/menu/", "vatID": "IT04523831214", "legalName": "Ceraldi Group S.r.l.", "servesCuisine": ["Caffetteria", "Pasticceria napoletana", "Colazione italiana", "Aperitivo"], "knowsAbout": ["caffè napoletano", "sfogliatella", "babà", "pastiera napoletana", "zeppole di San Giuseppe", "pasticceria napoletana", "colazione all'italiana"], "sameAs": ["https://www.instagram.com/ceraldicaffe/", "https://www.facebook.com/ceraldicaffe", "https://www.tripadvisor.it/Restaurant_Review-g187785-d2695184-Reviews-Ceraldi_Caffe-Naples_Province_of_Naples_Campania.html", "https://maps.google.com/?cid=3267263170235699466"]}</script><script type="application/ld+json">{"@context": "https://schema.org", "@type": "BreadcrumbList", "itemListElement": [{"@type": "ListItem", "position": 1, "name": "Ceraldi Caffè", "item": "https://valerioceraldi-hub.github.io/Ceraldi/caffe/"}, {"@type": "ListItem", "position": 2, "name": "Contact", "item": "https://valerioceraldi-hub.github.io/Ceraldi/caffe/en/contatti/"}]}</script>
 </head>
 <body>
 <a class="salta" href="#contenuto">Skip to content</a>

diff --git a/caffe/assets/sito.css b/caffe/assets/sito.css
@@ -294,3 +294,4 @@ body{padding-bottom:calc(52px + env(safe-area-inset-bottom))}
 .consenso-azioni button{flex:1;min-height:44px;border-radius:999px;border:1px solid var(--inchiostro);background:transparent;color:var(--inchiostro);font:600 15px var(--testo);cursor:pointer}
 .consenso-x{position:absolute;top:6px;right:8px;width:36px;height:36px;border:0;background:transparent;color:var(--inchiostro);font-size:24px;line-height:1;cursor:pointer}
 @media (max-width:640px){#consenso{bottom:calc(64px + env(safe-area-inset-bottom))}}
+.specchio img.fuoco-sx{object-position:30% 50%}

diff --git a/caffe/_build/build.py b/caffe/_build/build.py
@@ -130,7 +130,7 @@ def ld_bar(lang='it'):
         "name": "Ceraldi Caffè", "alternateName": ["Caffè Ceraldi", "Ceraldi Caffe", "Bar Ceraldi Piazza Carità"],
         "slogan": "Artigiani per passione dal 1973", "url": BASE,
         "logo": BASE + "img/logo-ceraldi.svg",
-        "image": [BASE + "img/sala-1024.webp", BASE + "img/squadra-1600.webp", BASE + "img/sfogliatella-riccia-1024.webp", BASE + "img/baba-1024.webp"],
+        "image": [BASE + "img/sfogliatella-riccia-1024.webp", BASE + "img/baba-1024.webp", BASE + "img/squadra-1600.webp", BASE + "img/sala-1024.webp"],
         "description": ("Bar e pasticceria napoletana della famiglia Ceraldi, attiva dal 1973 (prima in Piazza Garibaldi, dal 2002 in Piazza Carità, Napoli). Pasticceria di produzione propria con ricette di famiglia custodite da oltre cento anni: sfogliatelle, babà, pastiera, zeppole. Colazione all'italiana con croissant e brioche, caffè della casa, buffet freddi e aperitivo."
                         if lang == 'it' else "Neapolitan café and pastry shop run by the Ceraldi family since 1973 (first in Piazza Garibaldi, in Piazza Carità, Naples, since 2002). In-house pastries from family recipes kept for over a hundred years: sfogliatella, babà, pastiera, zeppole. Italian breakfast with croissants and brioche, house coffees, cold buffet and aperitivo."),
         "foundingDate": "1973", "telephone": "+39 081 552 3488", "priceRange": "€",
@@ -184,7 +184,7 @@ def home_it():
     alt = [("it", BASE), ("en", BASE + "en/"), ("x-default", BASE)]
     h = testa("it", "Ceraldi Caffè | Bar e pasticceria a Napoli, Piazza Carità",
               "Ceraldi Caffè, Piazza Carità 14, Napoli: bar e pasticceria di produzione propria dal 1973. Sfogliatelle, babà, pastiera, colazione con croissant e brioche, aperitivo. Aperti tutti i giorni 6:30–20:30.",
-              BASE, "", ld=[ld_bar('it'), ld_sito(), ld_faq(FAQ)], alternates=alt, preload="img/sala-1024.webp")
+              BASE, "", ld=[ld_bar('it'), ld_sito(), ld_faq(FAQ)], alternates=alt, preload="img/sfogliatella-riccia-1024.webp")
     storie = ''.join(f'<li><a href="storie/{a["slug"]}/"><b>{e(a["titolo"])}</b><span>{e(a["dek"])}</span><small>{a["lettura"]} min di lettura</small></a></li>' for a in ARTICOLI)
     vetr = ''.join(f'<a href="storie/{s}/"><figure>{immagine(k, "", "(max-width: 900px) 50vw, 25vw")}<h3>{t}</h3><p>{e(d)}</p></figure></a>' for s, k, t, d in TRAD)
     return h + f'''<header class="hero">
@@ -197,7 +197,7 @@ def home_it():
 <div class="azioni sinistra"><a class="btn pieno" href="{BAR["mappa"]}" rel="noopener">Come arrivare</a><a class="btn" href="menu/">Guarda il menu</a><a class="btn" href="tel:{BAR["tel_link"]}">Chiama</a></div>
 <p class="aperto">Aperto tutti i giorni dalle 6:30 alle 20:30<br><a href="#recensioni">Valutazione 4,3 su Google</a></p>
 </div>
-<figure class="specchio">{immagine("sala", "", "(max-width: 900px) 92vw, 480px", eager=True)}</figure>
+<figure class="specchio">{immagine("sfogliatella-riccia", "", "(max-width: 900px) 92vw, 480px", eager=True, cls="fuoco-sx")}</figure>
 </div>
 </header>
 <main id="contenuto">
@@ -286,7 +286,7 @@ def home_en():
     alt = [("it", BASE), ("en", BASE + "en/"), ("x-default", BASE)]
     h = testa("en", "Ceraldi Caffè | Café and pastry shop in Naples, Piazza Carità",
               "Ceraldi Caffè, Piazza Carità 14, Naples: café and in-house pastry shop since 1973. Sfogliatella, babà, pastiera, Italian breakfast with croissants, aperitivo. Open every day 6:30 am – 8:30 pm.",
-              BASE + "en/", "../", ld=[ld_bar('en'), ld_faq(FAQ_EN)], alternates=alt, preload="../img/sala-1024.webp")
+              BASE + "en/", "../", ld=[ld_bar('en'), ld_faq(FAQ_EN)], alternates=alt, preload="../img/sfogliatella-riccia-1024.webp")
     vetr = ''.join(f'<a href="../storie/{s}/" hreflang="it"><figure>{immagine(k, "../", "(max-width: 900px) 50vw, 25vw")}<h3>{t}</h3><p>{e(d)}</p></figure></a>'
                    for (s, k, t, _), d in zip(TRAD, TRAD_EN))
     return h + f'''<header class="hero">
@@ -299,7 +299,7 @@ def home_en():
 <div class="azioni sinistra"><a class="btn pieno" href="{BAR["mappa"]}" rel="noopener">Get directions</a><a class="btn" href="menu/">See the menu</a><a class="btn" href="tel:{BAR["tel_link"]}">Call</a></div>
 <p class="aperto">Open every day from 6:30 am to 8:30 pm<br><a href="#reviews">Rated 4.3 on Google</a></p>
 </div>
-<figure class="specchio">{immagine("sala", "../", "(max-width: 900px) 92vw, 480px", eager=True)}</figure>
+<figure class="specchio">{immagine("sfogliatella-riccia", "../", "(max-width: 900px) 92vw, 480px", eager=True, cls="fuoco-sx")}</figure>
 </div>
 </header>
 <main id="contenuto">
